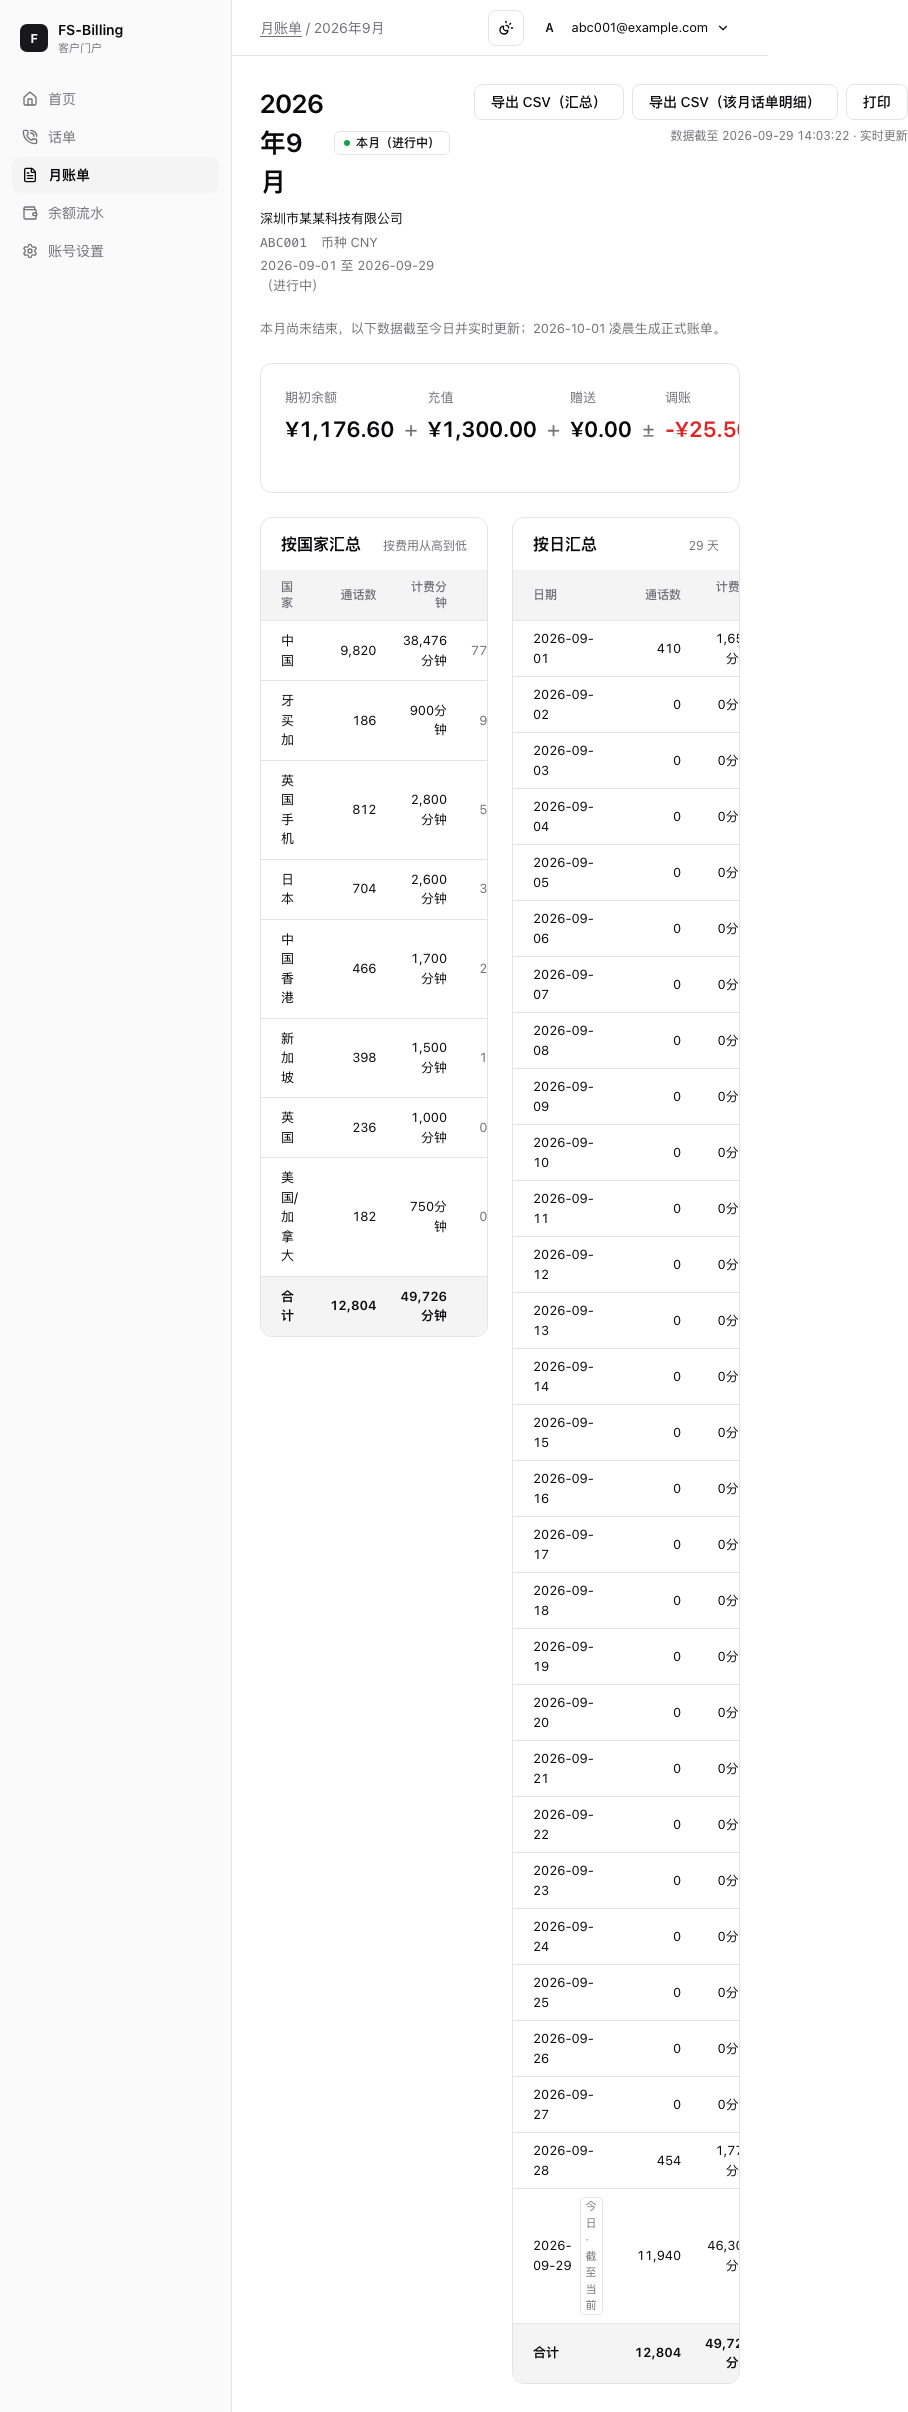
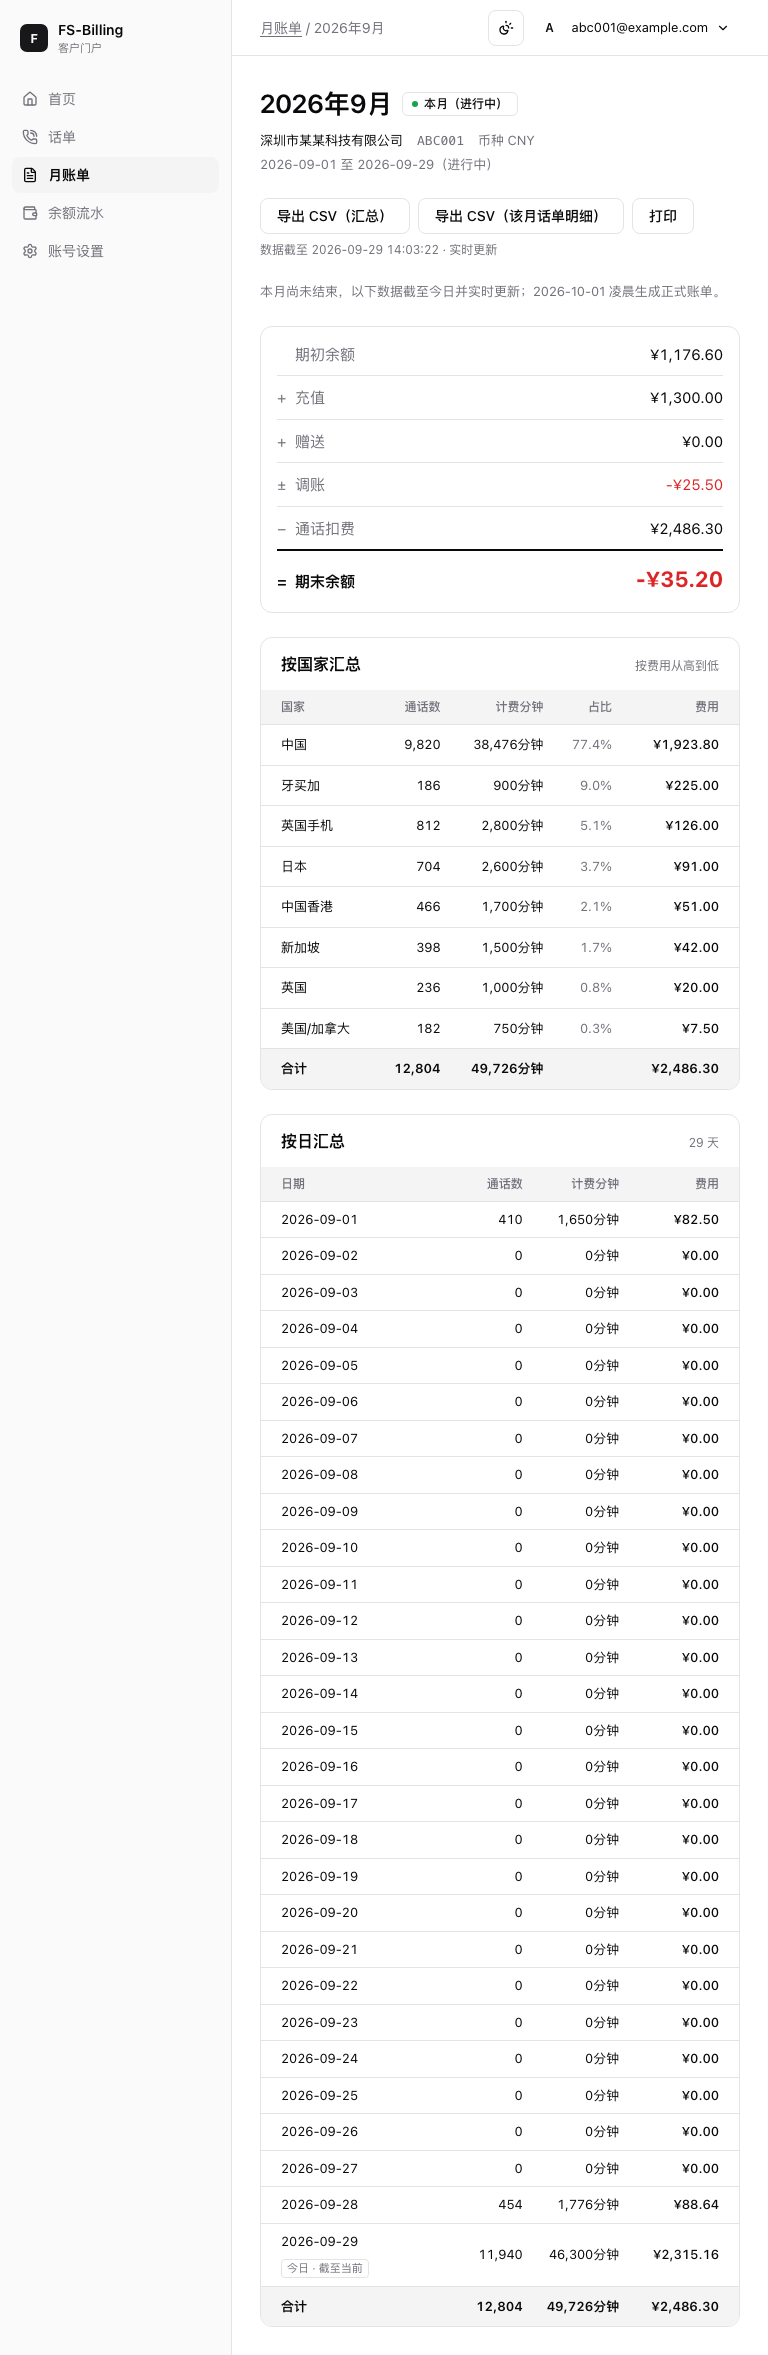
fix(web): adapt statement detail to tablet widths

diff --git a/apps/web/src/pages/portal/statement-detail.tsx b/apps/web/src/pages/portal/statement-detail.tsx
@@ -154,10 +154,10 @@ function StatementDetailContent({
   const title = statementMonthTitle(month);
   return (
     <div className="flex flex-col gap-4 p-4 md:gap-6 md:p-7">
-      <div className="flex flex-col gap-1.5 md:flex-row md:items-start md:justify-between md:gap-6">
+      <div className="flex flex-col gap-1.5 md:gap-6 xl:flex-row xl:items-start xl:justify-between">
         <div className="flex flex-col gap-1.5 md:gap-2">
           <div className="flex items-center gap-2.5">
-            <h1 className="m-0 text-[26px] font-semibold tracking-[-0.01em] max-md:sr-only">
+            <h1 className="m-0 whitespace-nowrap text-[26px] font-semibold tracking-[-0.01em] max-md:sr-only">
               {title}
             </h1>
             <StatementStateTag
@@ -185,8 +185,8 @@ function StatementDetailContent({
             <StatementMeta statement={statement} />
           </span>
         </div>
-        <div className="hidden flex-col items-end gap-2 md:flex">
-          <div className="flex gap-2 print:hidden">
+        <div className="hidden flex-col gap-2 md:flex xl:items-end">
+          <div className="flex flex-wrap gap-2 print:hidden">
             <CdrExportButton
               label="导出 CSV（汇总）"
               exporting={summary.isPending}
@@ -226,7 +226,7 @@ function StatementDetailContent({
       ) : null}
       <StatementNotices statement={statement} />
       <StatementEquation currency={currency} figures={figures} />
-      <div className="grid items-start gap-4 md:grid-cols-2 md:gap-6">
+      <div className="grid items-start gap-4 md:gap-6 xl:grid-cols-2">
         <StatementCountries
           currency={currency}
           countries={statement.countries}

diff --git a/apps/web/src/pages/admin/tenant-tabs/statement-detail.tsx b/apps/web/src/pages/admin/tenant-tabs/statement-detail.tsx
@@ -192,10 +192,10 @@ function Detail({
   );
   return (
     <div className="flex flex-col gap-5">
-      <div className="flex flex-col gap-3 md:flex-row md:items-start md:justify-between md:gap-6">
+      <div className="flex flex-col gap-3 md:gap-6 xl:flex-row xl:items-start xl:justify-between">
         <div className="flex flex-col gap-2">
           <div className="flex items-center gap-2.5">
-            <h2 className="m-0 text-[22px] font-semibold tracking-[-0.01em]">
+            <h2 className="m-0 whitespace-nowrap text-[22px] font-semibold tracking-[-0.01em]">
               {statementMonthTitle(month)}
             </h2>
             <StatementStateTag state={state} size="lg" />
@@ -207,8 +207,8 @@ function Detail({
             <span>{statementPeriodLabel(period, state)}</span>
           </div>
         </div>
-        <div className="flex flex-col gap-2 md:items-end">
-          <div className="flex flex-col gap-2 md:flex-row print:hidden">
+        <div className="flex flex-col gap-2 xl:items-end">
+          <div className="flex flex-col gap-2 md:flex-row md:flex-wrap print:hidden">
             {exportButton('导出 CSV（汇总）', summaryExport)}
             {exportButton(
               '导出 CSV（该月话单明细）',
@@ -278,7 +278,7 @@ function Detail({
       ) : null}
       <AdminFacts statement={statement} />
       <StatementEquation currency={currency} figures={figures} />
-      <div className="grid items-start gap-5 md:grid-cols-2 md:gap-6">
+      <div className="grid items-start gap-5 md:gap-6 xl:grid-cols-2">
         <StatementCountries
           currency={currency}
           countries={statement.countries}

diff --git a/apps/web/src/pages/admin/tenant-tabs/statements-tab.test.tsx b/apps/web/src/pages/admin/tenant-tabs/statements-tab.test.tsx
@@ -370,6 +370,26 @@ describe('admin statement detail', () => {
     expect(facts).toHaveTextContent('¥12.50');
   });
 
+  it('uses tablet-friendly statement and balance layouts', async () => {
+    tabApp(detailUrl);
+    const title = await screen.findByRole('heading', { name: '2026年8月' });
+    expect(title).toHaveClass('whitespace-nowrap');
+    const equation = screen.getByRole('region', { name: '账单汇总' });
+    expect(equation.children[0]).toHaveClass('hidden', 'xl:flex');
+    expect(equation.children[1]).toHaveClass('flex', 'xl:hidden');
+    const countries = screen.getByRole('region', { name: '按国家汇总' });
+    const days = screen.getByRole('region', { name: '按日汇总' });
+    expect(countries.parentElement).toBe(days.parentElement);
+    expect(countries.parentElement).toHaveClass('grid', 'xl:grid-cols-2');
+    expect(within(countries).getByRole('table')).toHaveClass(
+      'whitespace-nowrap',
+    );
+    expect(within(days).getByRole('table')).toHaveClass('whitespace-nowrap');
+    expect(
+      screen.getByRole('region', { name: '当前余额' }).parentElement,
+    ).toHaveClass('md:grid-cols-2', 'lg:grid-cols-[1.4fr_1fr_1fr_1fr]');
+  });
+
   it('names the scheduled job when no administrator generated the statement', async () => {
     tabApp(detailUrl);
     await screen.findByRole('heading', { name: '2026年8月' });

diff --git a/apps/web/src/pages/portal/statement-detail.test.tsx b/apps/web/src/pages/portal/statement-detail.test.tsx
@@ -83,6 +83,25 @@ describe('portal statement detail', () => {
     expect(screen.queryByText('本月（进行中）')).toBeNull();
   });
 
+  it('uses a stacked equation and tables until the wide layout fits', async () => {
+    renderDetail('2026-09', septemberDetail);
+    const equation = await screen.findByRole('region', { name: '账单汇总' });
+    expect(equation.children[0]).toHaveClass('hidden', 'xl:flex');
+    expect(equation.children[0]).not.toHaveClass('overflow-x-auto');
+    expect(equation.children[1]).toHaveClass('flex', 'xl:hidden');
+    const countries = screen.getByRole('region', { name: '按国家汇总' });
+    const days = screen.getByRole('region', { name: '按日汇总' });
+    expect(countries.parentElement).toBe(days.parentElement);
+    expect(countries.parentElement).toHaveClass('grid', 'xl:grid-cols-2');
+    expect(within(countries).getByRole('table')).toHaveClass(
+      'whitespace-nowrap',
+    );
+    expect(within(days).getByRole('table')).toHaveClass('whitespace-nowrap');
+    expect(screen.getByRole('heading', { name: '2026年9月' })).toHaveClass(
+      'whitespace-nowrap',
+    );
+  });
+
   it('shows the September equation with negative adjustment and closing in red', async () => {
     renderDetail('2026-09', septemberDetail);
     const equation = await screen.findByRole('region', { name: '账单汇总' });

diff --git a/apps/web/src/pages/admin/tenant-detail.tsx b/apps/web/src/pages/admin/tenant-detail.tsx
@@ -152,10 +152,10 @@ function MobileActions({
 function BalanceCards({ tenant }: { tenant: AdminTenantDetailResponse }) {
   const money = (amount: string) => ({ currency: tenant.currency, amount });
   return (
-    <div className="hidden rounded-xl border border-border tabular-nums md:grid md:grid-cols-[1.4fr_1fr_1fr_1fr] print:hidden">
+    <div className="hidden rounded-xl border border-border tabular-nums md:grid md:grid-cols-2 lg:grid-cols-[1.4fr_1fr_1fr_1fr] print:hidden">
       <section
         aria-label="当前余额"
-        className="flex flex-col gap-1.5 border-r border-border px-6 py-5"
+        className="flex flex-col gap-1.5 border-r border-b border-border px-6 py-5 lg:border-b-0"
       >
         <span className="text-[13px] text-muted-foreground">当前余额</span>
         <Money
@@ -163,7 +163,7 @@ function BalanceCards({ tenant }: { tenant: AdminTenantDetailResponse }) {
           className="text-[36px] leading-[1.1] font-semibold tracking-[-0.02em]"
         />
       </section>
-      <section className="flex flex-col gap-1.5 border-r border-border px-6 py-5">
+      <section className="flex flex-col gap-1.5 border-b border-border px-6 py-5 lg:border-r lg:border-b-0">
         <span className="text-[13px] text-muted-foreground">透支额度</span>
         <Money
           value={money(tenant.overdraftLimit)}

diff --git a/apps/web/src/components/statement/statement-equation.tsx b/apps/web/src/components/statement/statement-equation.tsx
@@ -87,7 +87,7 @@ export function StatementEquation({
   const usageNote = `${formatCount(figures.calls)} 通 · ${formatMinutes(figures.callMinutes)}`;
   return (
     <section aria-label="账单汇总">
-      <div className="hidden items-stretch gap-2.5 overflow-x-auto rounded-xl border border-border p-6 tabular-nums md:flex print:break-inside-avoid print:flex-wrap print:overflow-visible">
+      <div className="hidden items-stretch gap-2.5 rounded-xl border border-border p-6 tabular-nums xl:flex print:break-inside-avoid print:flex-wrap">
         <Term label="期初余额">
           <Money value={money(figures.openingBalance)} />
         </Term>
@@ -115,7 +115,7 @@ export function StatementEquation({
           </span>
         </div>
       </div>
-      <div className="flex flex-col rounded-xl border border-border px-4 py-1.5 text-[15px] tabular-nums md:hidden">
+      <div className="flex flex-col rounded-xl border border-border px-4 py-1.5 text-[15px] tabular-nums xl:hidden">
         <Row label="期初余额">
           <Money value={money(figures.openingBalance)} />
         </Row>

diff --git a/apps/web/src/components/statement/day-table.tsx b/apps/web/src/components/statement/day-table.tsx
@@ -40,7 +40,7 @@ export function StatementDays({
         <h2 className="m-0 text-[15px] font-semibold md:text-base">按日汇总</h2>
         <span className="text-xs text-muted-foreground">{dayCount}</span>
       </div>
-      <table className="hidden w-full border-collapse text-[13px] md:table">
+      <table className="hidden w-full border-collapse whitespace-nowrap text-[13px] md:table">
         <thead>
           <tr className="bg-muted text-xs text-muted-foreground">
             <th className="px-5 py-[9px] text-left font-medium">日期</th>
@@ -56,7 +56,7 @@ export function StatementDays({
               className="border-t border-border print:break-inside-avoid"
             >
               <td className="px-5 py-2">
-                <div className="flex items-center gap-2">
+                <div className="flex flex-wrap items-center gap-2">
                   {row.day}
                   {row.day === today ? (
                     <span className="rounded border border-border px-[5px] text-[11px] text-muted-foreground">

diff --git a/apps/web/src/components/statement/country-table.tsx b/apps/web/src/components/statement/country-table.tsx
@@ -44,7 +44,7 @@ export function StatementCountries({
           <span className="hidden md:inline">按费用从高到低</span>
         </span>
       </div>
-      <table className="hidden w-full border-collapse text-[13px] md:table">
+      <table className="hidden w-full border-collapse whitespace-nowrap text-[13px] md:table">
         <thead>
           <tr className="bg-muted text-xs text-muted-foreground">
             <th className="px-5 py-[9px] text-left font-medium">国家</th>
